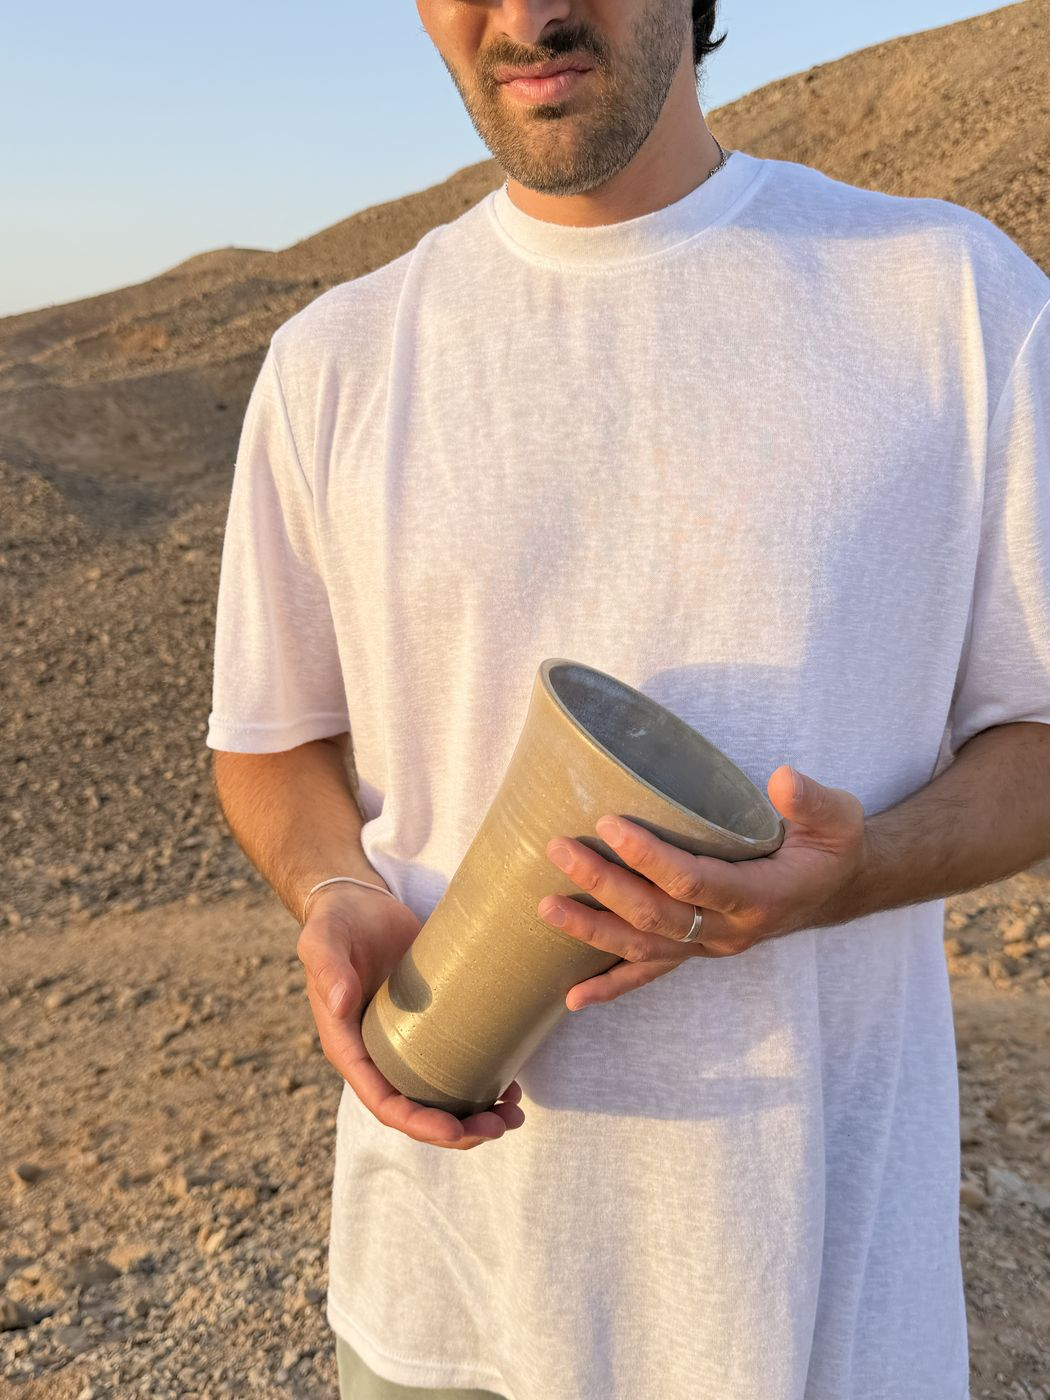
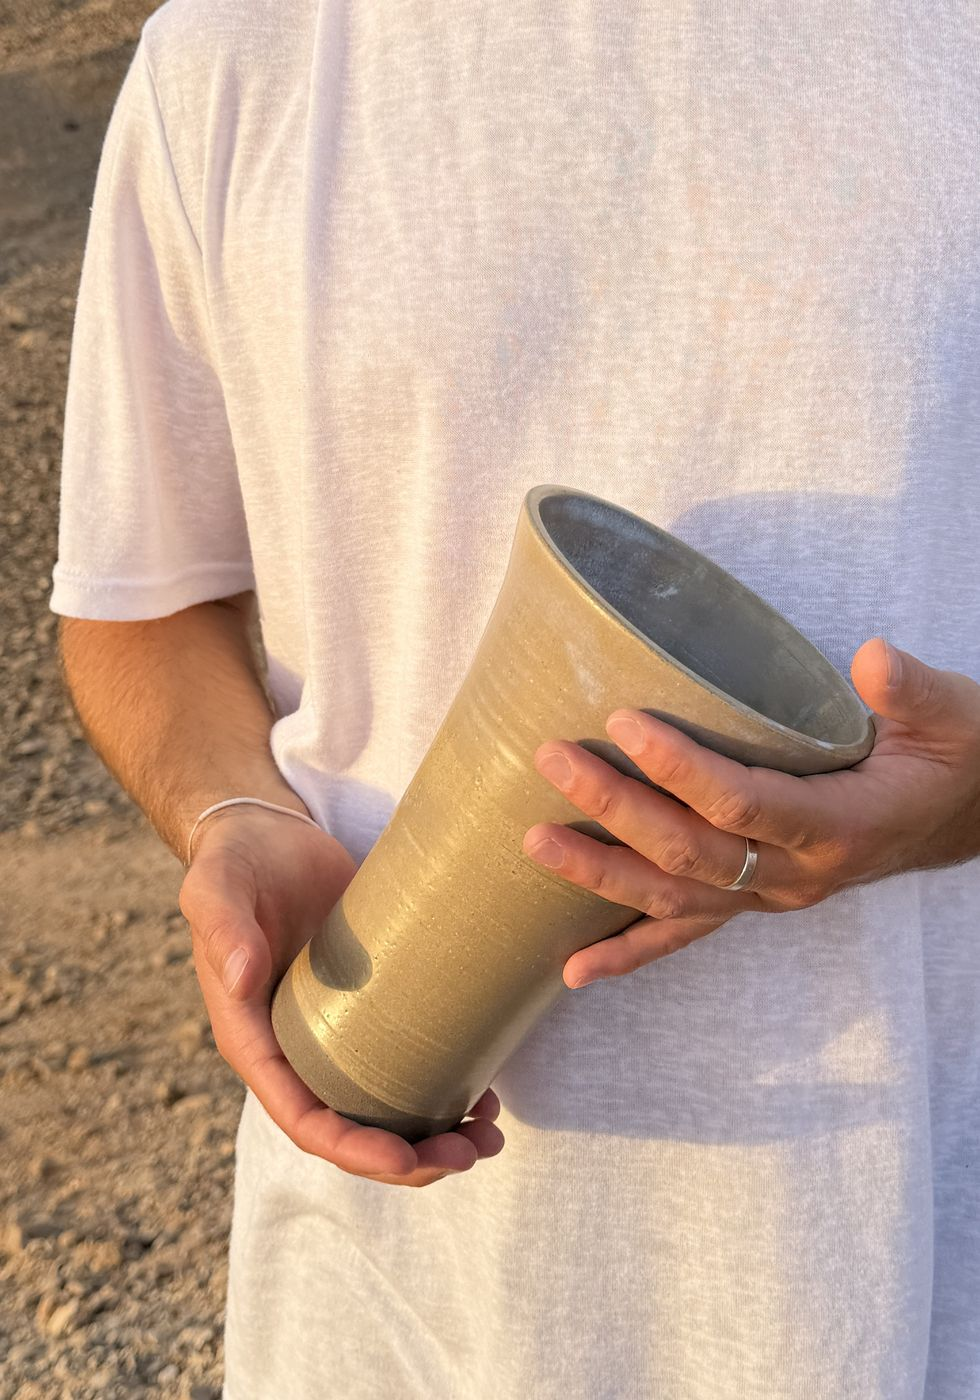
Shrink the About pottery gallery and recrop the cup photo to exclude face
Scoped a smaller image height to #hobbies specifically (360px vs Playground's 480px) instead of changing the shared side-gallery default. Recropped about-ceramic-8.jpg to zoom into the cup/hands, cutting the face out of frame entirely.

diff --git a/index.html b/index.html
@@ -14,7 +14,7 @@
 <link rel="preconnect" href="https://fonts.gstatic.com" crossorigin>
 <link href="https://fonts.googleapis.com/css2?family=Inter:wght@300;400;500;600&display=swap" rel="stylesheet">
 <link rel="icon" href="favicon.svg" type="image/svg+xml">
-<link rel="stylesheet" href="style.css?v=128">
+<link rel="stylesheet" href="style.css?v=129">
 <script type="application/ld+json">
 {
   "@context": "https://schema.org",

diff --git a/style.css b/style.css
@@ -461,6 +461,10 @@ a.project:hover{ transform:translate(-3px,-3px); box-shadow:8px 8px 0 var(--ink)
 @media (max-width: 640px){
   .side-gallery-track img{ height:260px; }
 }
+#hobbies .side-gallery-track img{ height:360px; }
+@media (max-width: 640px){
+  #hobbies .side-gallery-track img{ height:220px; }
+}
 
 /* ---------- PLAYGROUND STRIP (full-bleed) ---------- */
 #playground-teaser{ margin-top:56px; }

diff --git a/work-filmroll.html b/work-filmroll.html
@@ -10,7 +10,7 @@
 <link href="https://fonts.googleapis.com/css2?family=Inter:wght@300;400;500;600&display=swap" rel="stylesheet">
 <link rel="canonical" href="https://maorcohenfalah.com/work-filmroll.html">
 <link rel="icon" href="favicon.svg" type="image/svg+xml">
-<link rel="stylesheet" href="style.css?v=128">
+<link rel="stylesheet" href="style.css?v=129">
 </head>
 <body>
 

diff --git a/work-austrip.html b/work-austrip.html
@@ -10,7 +10,7 @@
 <link href="https://fonts.googleapis.com/css2?family=Inter:wght@300;400;500;600&display=swap" rel="stylesheet">
 <link rel="canonical" href="https://maorcohenfalah.com/work-austrip.html">
 <link rel="icon" href="favicon.svg" type="image/svg+xml">
-<link rel="stylesheet" href="style.css?v=128">
+<link rel="stylesheet" href="style.css?v=129">
 </head>
 <body>
 

diff --git a/playground.html b/playground.html
@@ -10,7 +10,7 @@
 <link href="https://fonts.googleapis.com/css2?family=Inter:wght@300;400;500;600&display=swap" rel="stylesheet">
 <link rel="canonical" href="https://maorcohenfalah.com/playground.html">
 <link rel="icon" href="favicon.svg" type="image/svg+xml">
-<link rel="stylesheet" href="style.css?v=128">
+<link rel="stylesheet" href="style.css?v=129">
 </head>
 <body>
 

diff --git a/work-pazi.html b/work-pazi.html
@@ -10,7 +10,7 @@
 <link href="https://fonts.googleapis.com/css2?family=Inter:wght@300;400;500;600&display=swap" rel="stylesheet">
 <link rel="canonical" href="https://maorcohenfalah.com/work-pazi.html">
 <link rel="icon" href="favicon.svg" type="image/svg+xml">
-<link rel="stylesheet" href="style.css?v=128">
+<link rel="stylesheet" href="style.css?v=129">
 </head>
 <body>
 

diff --git a/about.html b/about.html
@@ -10,7 +10,7 @@
 <link href="https://fonts.googleapis.com/css2?family=Inter:wght@300;400;500;600&display=swap" rel="stylesheet">
 <link rel="canonical" href="https://maorcohenfalah.com/about.html">
 <link rel="icon" href="favicon.svg" type="image/svg+xml">
-<link rel="stylesheet" href="style.css?v=128">
+<link rel="stylesheet" href="style.css?v=129">
 </head>
 <body>
 
